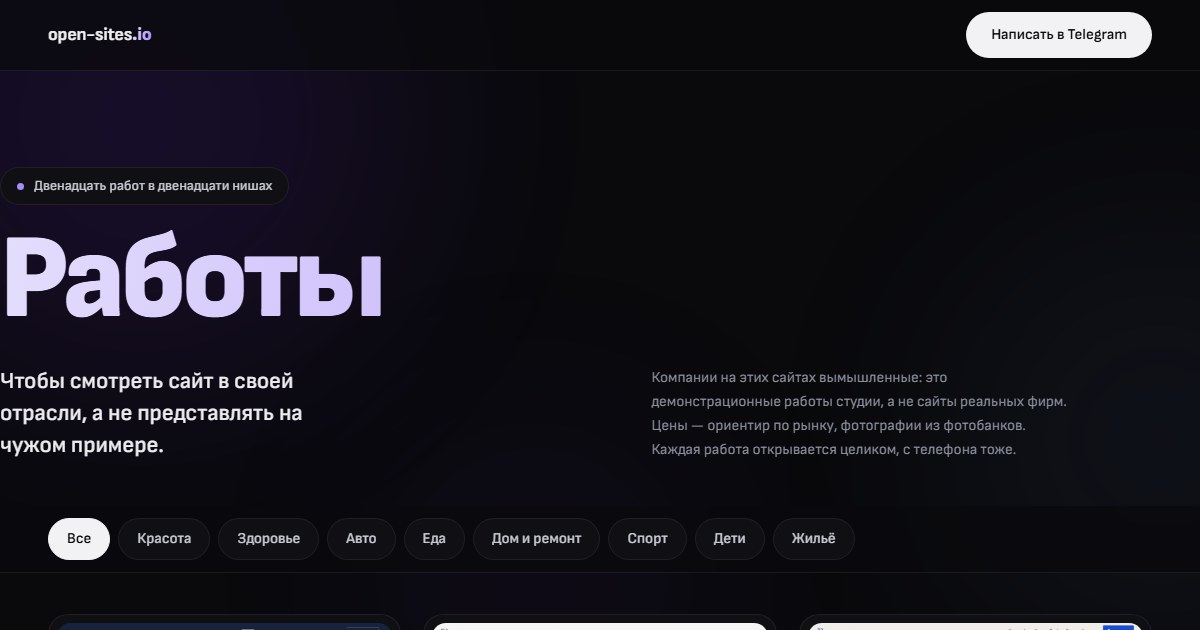
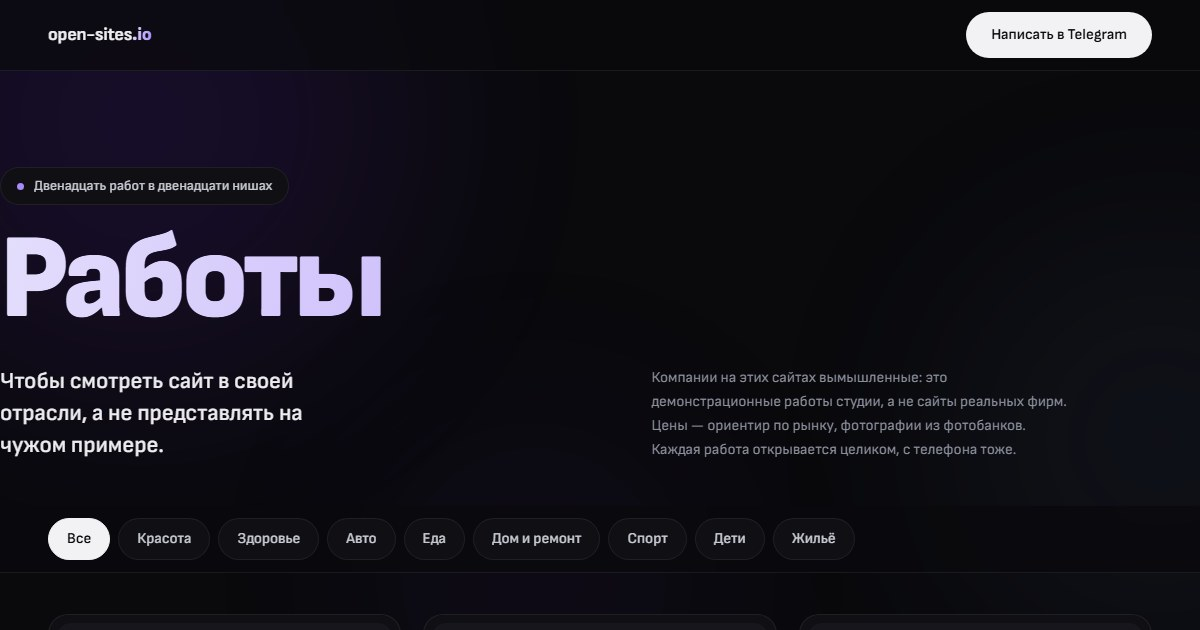
Витрина: строки на карточках подрезаны под две строки

Changed region(s): [[0.0308, 0.9651, 0.6475, 1.0], [0.6783, 0.9651, 0.9558, 1.0]]

diff --git a/index.html b/index.html
@@ -312,7 +312,7 @@ body:has(#n-stay:checked) .cell:not([data-niche="stay"]){display:none}
           <span class="card__body">
             <span class="card__name">Уровень</span>
             <span class="card__kind">ремонт квартир, Батуми</span>
-            <span class="card__idea">Сайт бригады, устроенный как смета: работа, единица, цена — и ни одного «под ключ от 100 лари».</span>
+            <span class="card__idea">Сайт бригады, устроенный как смета: работа, единица, цена.</span>
             <span class="card__go">Открыть сайт<svg width="13" height="13" viewBox="0 0 13 13" fill="none" aria-hidden="true"><path d="M3.5 9.5L9.5 3.5M4.5 3.5h5v5" stroke="currentColor" stroke-width="1.7" stroke-linecap="round" stroke-linejoin="round"/></svg></span>
           </span>
         </a>
@@ -327,7 +327,7 @@ body:has(#n-stay:checked) .cell:not([data-niche="stay"]){display:none}
           <span class="card__body">
             <span class="card__name">Начисто</span>
             <span class="card__kind">клининг, Батуми</span>
-            <span class="card__idea">Белый лист без единого цветного акцента: цвет на странице есть только в фотографиях.</span>
+            <span class="card__idea">Белый лист без цветного акцента: цвет есть только в фотографиях.</span>
             <span class="card__go">Открыть сайт<svg width="13" height="13" viewBox="0 0 13 13" fill="none" aria-hidden="true"><path d="M3.5 9.5L9.5 3.5M4.5 3.5h5v5" stroke="currentColor" stroke-width="1.7" stroke-linecap="round" stroke-linejoin="round"/></svg></span>
           </span>
         </a>
@@ -342,7 +342,7 @@ body:has(#n-stay:checked) .cell:not([data-niche="stay"]){display:none}
           <span class="card__body">
             <span class="card__name">Кружок</span>
             <span class="card__kind">детский центр, развивающие занятия</span>
-            <span class="card__idea">Забота без мультяшности: спокойные цвета, книжная антиква, ни одного «весёлого» шрифта.</span>
+            <span class="card__idea">Забота без мультяшности: спокойные цвета и книжная антиква.</span>
             <span class="card__go">Открыть сайт<svg width="13" height="13" viewBox="0 0 13 13" fill="none" aria-hidden="true"><path d="M3.5 9.5L9.5 3.5M4.5 3.5h5v5" stroke="currentColor" stroke-width="1.7" stroke-linecap="round" stroke-linejoin="round"/></svg></span>
           </span>
         </a>
@@ -387,7 +387,7 @@ body:has(#n-stay:checked) .cell:not([data-niche="stay"]){display:none}
           <span class="card__body">
             <span class="card__name">Ладонь</span>
             <span class="card__kind">массаж, Батуми</span>
-            <span class="card__idea">Средне-тёмная тёплая страница без единого «релакс-клише»: ни свечей, ни камней, ни лотоса.</span>
+            <span class="card__idea">Тёплая тёмная страница без единого «релакс-клише»: ни свечей, ни камней.</span>
             <span class="card__go">Открыть сайт<svg width="13" height="13" viewBox="0 0 13 13" fill="none" aria-hidden="true"><path d="M3.5 9.5L9.5 3.5M4.5 3.5h5v5" stroke="currentColor" stroke-width="1.7" stroke-linecap="round" stroke-linejoin="round"/></svg></span>
           </span>
         </a>
